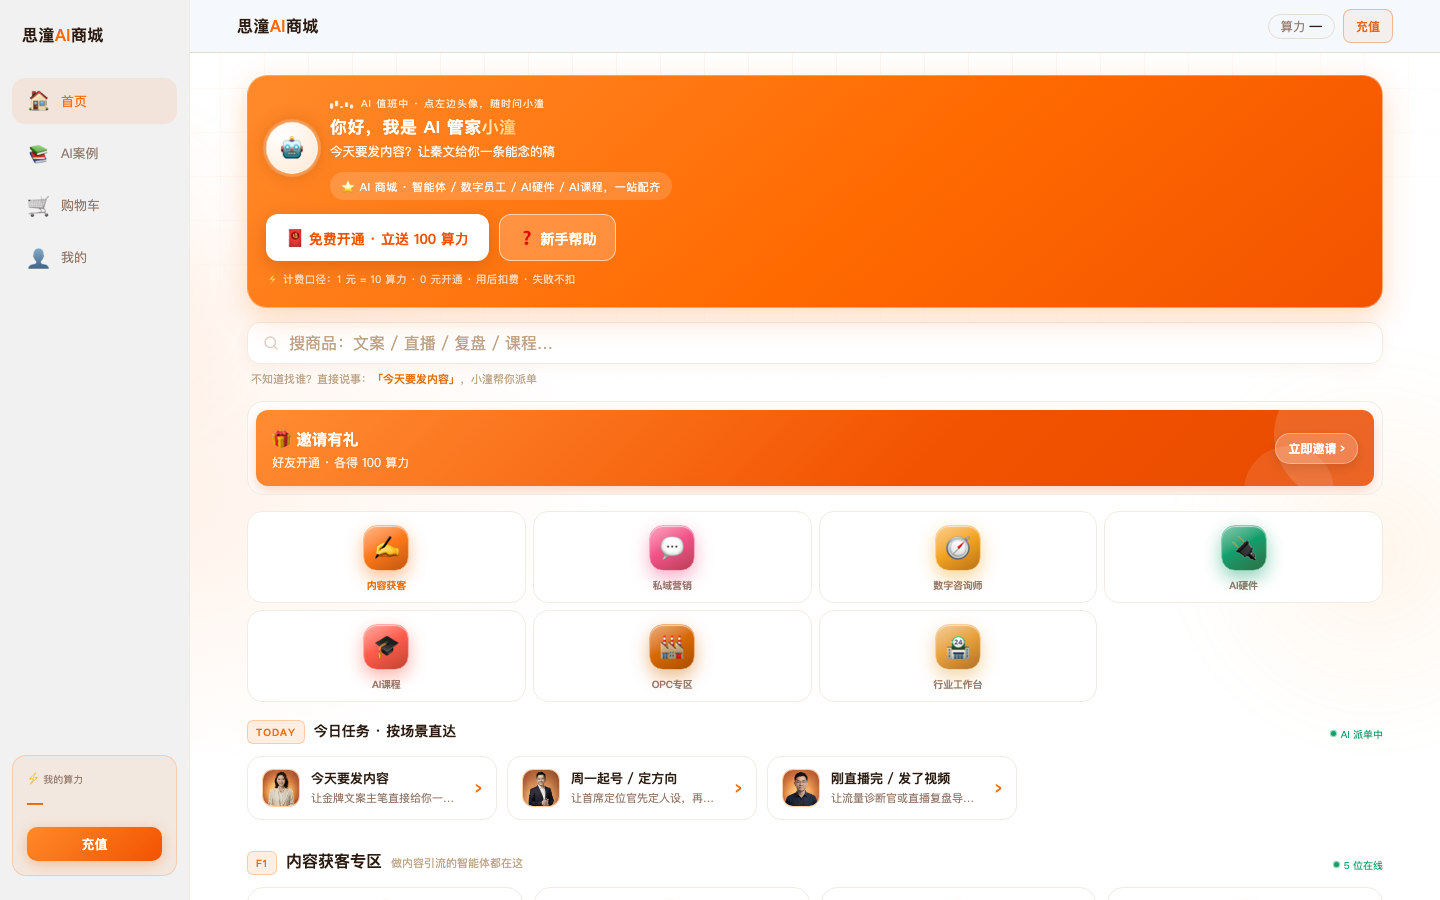
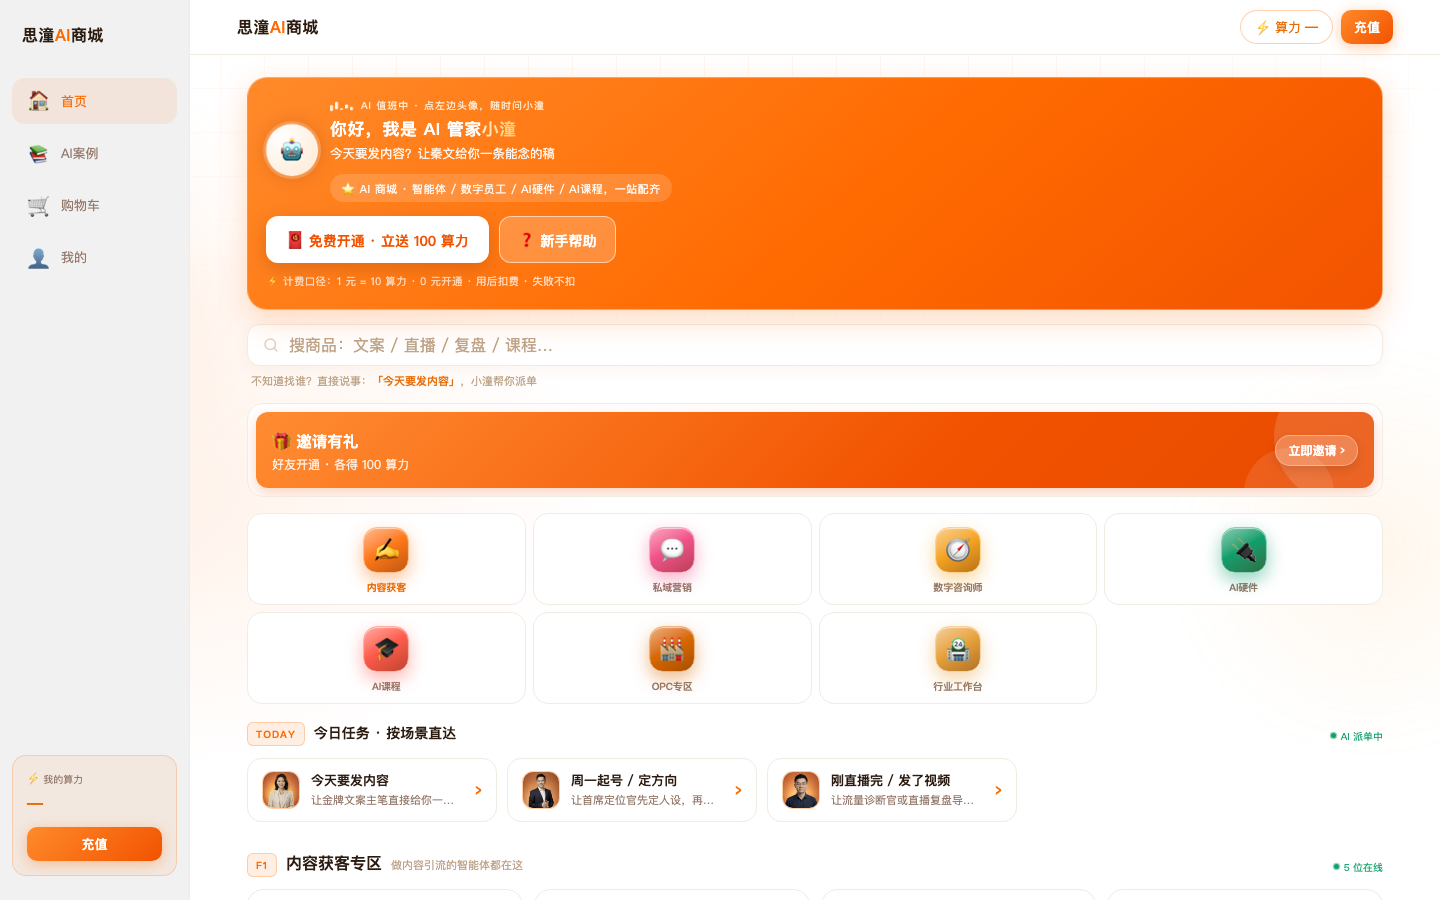
revert(web): 首页顶栏回退上一版（白底+⚡算力橙胶囊+橙渐变充值），详情/工作台保留原型规格（仅本地）
- 首页（.eco-mall-page）顶栏作用域还原：白底 rgba(255,255,255,.9)、blur16、⚡算力白底橙胶囊、充值橙渐变+流光
- 详情页/工作台不受影响：继续用原型 ip-pos-workbench-demo 规格（浅灰底 52px、橙描边返回、算力浅灰胶囊、徽标 11px）
- 验收 70/70 PASS（新增首页三条回退断言）

diff --git a/apps/web/src/styles/eco-mall.css b/apps/web/src/styles/eco-mall.css
@@ -1681,3 +1681,32 @@ body:has(.ipd-page), body:has(.ts-wb){overflow-x:hidden}
 /* 详情页：顶栏贴顶 + 干净浅色背景（去掉商城橙粉渐变，原型工作台同为 #F4F7FC） */
 .ipd-page.eh{padding-top:0;background:#F4F7FC;background-image:none}
 .ipd-page.eh > .eh-topbar{margin-top:0}
+
+
+/* ============================================================
+   首页顶栏回退上一版（2026-09-29 用户要求）：白底 + ⚡算力橙胶囊 + 橙色渐变充值
+   仅作用于 .eco-mall-page（商城首页）；详情/工作台保持原型 ip-pos-workbench-demo 规格
+   ============================================================ */
+.eco-mall-page > .eh-topbar{
+  background:rgba(255,255,255,.9);
+  -webkit-backdrop-filter:blur(16px);backdrop-filter:blur(16px);
+  border-bottom:1px solid #F0EBE3;
+}
+.eco-mall-page > .eh-topbar > .eh-topbar-in{height:auto;padding:10px 22px}
+.eco-mall-page .eh-bal2{
+  background:#fff;border:1px solid rgba(255,122,26,.35);color:#E86A00;font-size:13px;
+  height:34px;padding:0 14px;
+}
+.eco-mall-page .eh-bal2::before{content:"⚡ "}
+.eco-mall-page .eh-bal2 b{color:#E86A00}
+.eco-mall-page .eh-topbar .eh-mini{
+  padding:6px 13px;border-radius:10px;font-size:13px;font-weight:600;
+  color:#fff;background:linear-gradient(135deg,#FF8A2A,#F25300);
+  border:0;box-shadow:0 3px 14px rgba(255,106,0,.35);
+}
+.eco-mall-page .eh-topbar .eh-mini::after{
+  display:block;content:"";position:absolute;top:0;left:-70%;width:45%;height:100%;
+  background:linear-gradient(105deg,transparent,rgba(255,255,255,.5),transparent);
+  animation:ehSheen 2.8s infinite;
+}
+.eco-mall-page .eh-topbar .eh-mini:hover{background:linear-gradient(135deg,#FF8A2A,#F25300)}
